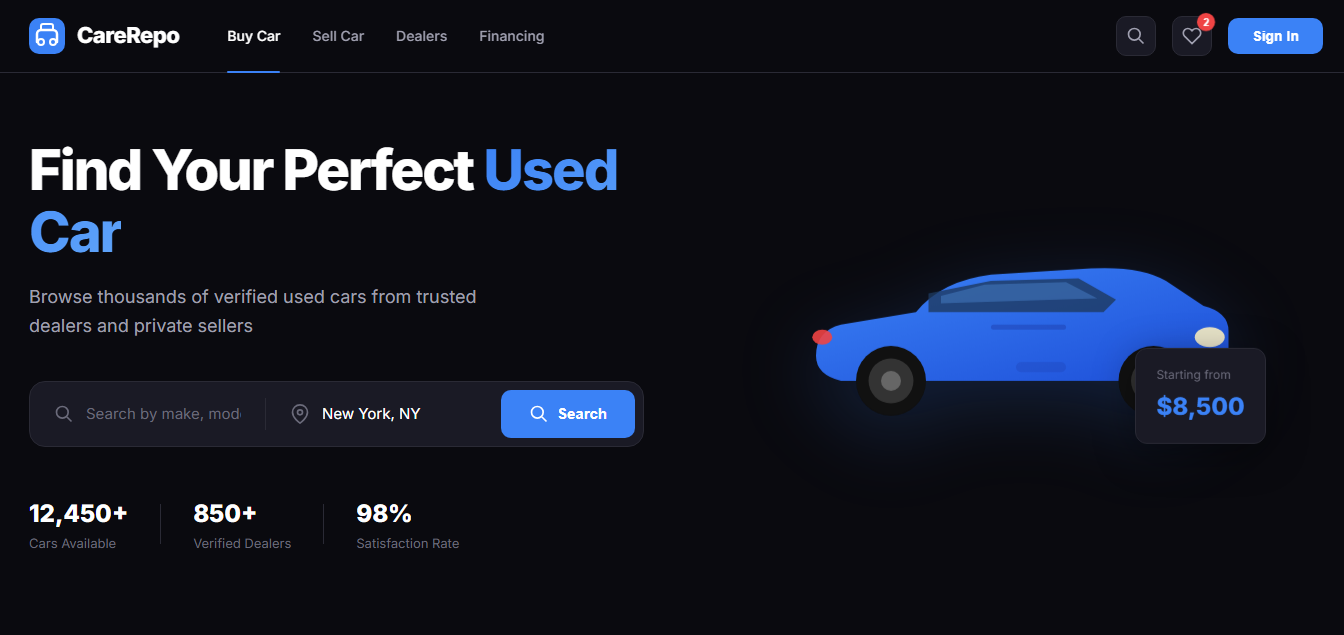
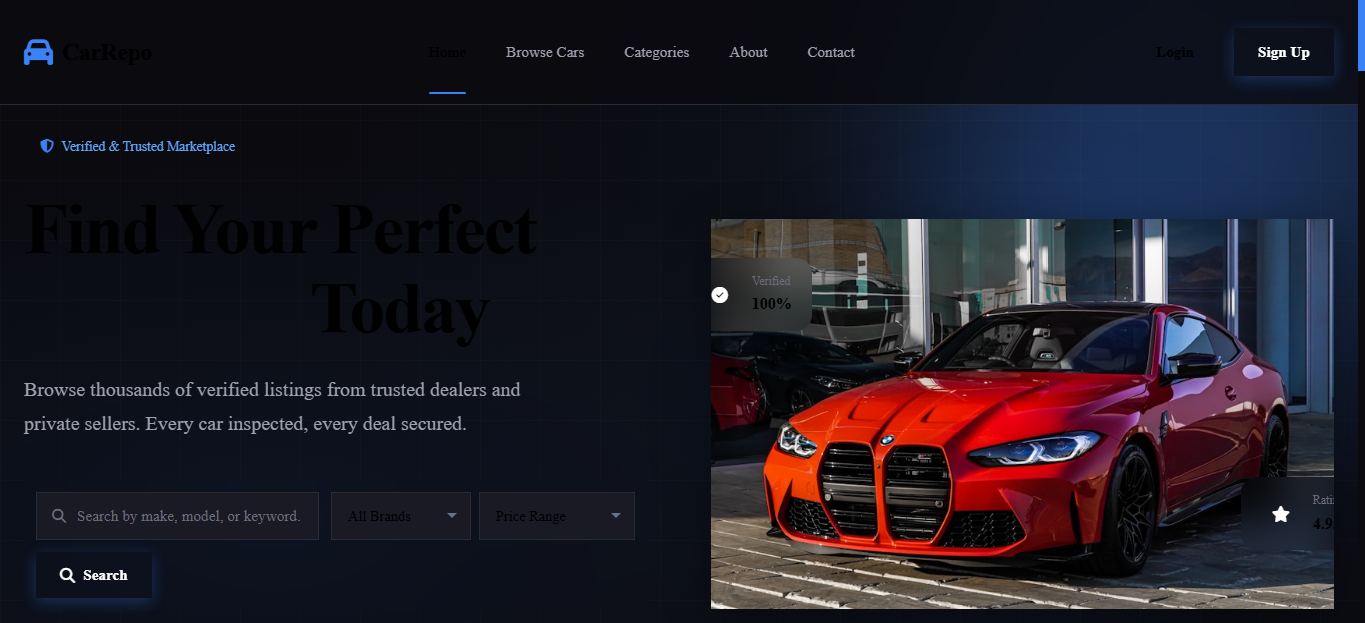
update

diff --git a/cv.html b/cv.html
@@ -1,0 +1,217 @@
+<!DOCTYPE html>
+<html lang="en">
+<head>
+<meta charset="UTF-8">
+<meta name="viewport" content="width=device-width, initial-scale=1.0">
+<title>Professional CV</title>
+
+<style>
+    body {
+        margin: 0;
+        background: #0b0f19;
+        font-family: 'Segoe UI', Arial, sans-serif;
+        color: #e5e7eb;
+    }
+
+    .cv-container {
+        max-width: 900px;
+        margin: 40px auto;
+        background: #111827;
+        padding: 50px;
+        border-radius: 16px;
+        box-shadow: 0 20px 60px rgba(0,0,0,0.5);
+    }
+
+    /* HEADER */
+    .header {
+        display: flex;
+        justify-content: space-between;
+        flex-wrap: wrap;
+        border-bottom: 1px solid #1f2937;
+        padding-bottom: 20px;
+        margin-bottom: 25px;
+    }
+
+    .name {
+        font-size: 34px;
+        font-weight: bold;
+        color: #8b5cf6;
+        margin: 0;
+    }
+
+    .role {
+        color: #a78bfa;
+        margin-top: 5px;
+        font-size: 16px;
+    }
+
+    .contact {
+        text-align: right;
+        font-size: 13px;
+        line-height: 1.7;
+        color: #cbd5e1;
+    }
+
+    /* SECTION */
+    .section {
+        margin-top: 25px;
+    }
+
+    .section-title {
+        font-size: 14px;
+        letter-spacing: 2px;
+        color: #8b5cf6;
+        margin-bottom: 10px;
+        font-weight: bold;
+    }
+
+    p {
+        color: #d1d5db;
+        line-height: 1.7;
+        font-size: 14px;
+    }
+
+    /* SKILLS */
+    .skills {
+        display: flex;
+        flex-wrap: wrap;
+        gap: 10px;
+    }
+
+    .skill {
+        background: #1f2937;
+        padding: 8px 12px;
+        border-radius: 6px;
+        font-size: 12px;
+        border: 1px solid #2b3443;
+    }
+
+    /* PROJECTS */
+    .project {
+        margin-bottom: 12px;
+        padding: 10px;
+        background: #0f172a;
+        border-left: 3px solid #8b5cf6;
+        border-radius: 6px;
+    }
+
+    /* BUTTON */
+    .btn {
+        display: inline-block;
+        margin-top: 20px;
+        padding: 12px 18px;
+        background: linear-gradient(135deg, #8b5cf6, #7c3aed);
+        color: white;
+        text-decoration: none;
+        border-radius: 8px;
+        font-weight: 600;
+        border: none;
+        cursor: pointer;
+        transition: 0.3s;
+    }
+
+    .btn:hover {
+        transform: translateY(-2px);
+        box-shadow: 0 10px 25px rgba(139, 92, 246, 0.3);
+    }
+
+    @media (max-width: 600px) {
+        .header {
+            flex-direction: column;
+            text-align: left;
+        }
+
+        .contact {
+            text-align: left;
+            margin-top: 15px;
+        }
+    }
+</style>
+
+</head>
+
+<body>
+
+<div class="cv-container">
+
+    <!-- HEADER -->
+    <div class="header">
+        <div>
+            <h1 class="name">Jeffrey</h1>
+            <div class="role">Frontend Developer</div>
+        </div>
+
+        <div class="contact">
+            open to work<br>
+            📧 [email redacted]<br>
+            🔗 https://github.com/flhaidem-afk <br>
+            🌐 https://flhaidem-afk.github.io/jeffrey/
+        </div>
+    </div>
+
+    <!-- BUTTON -->
+    <button class="btn" onclick="window.print()">Download CV (PDF)</button>
+
+    <!-- PROFILE -->
+    <div class="section">
+        <div class="section-title">PROFILE</div>
+        <p>
+            Frontend Developer focused on building clean, responsive, and user-friendly web applications.
+            Passionate about UI design, performance, and modern web technologies.
+        </p>
+    </div>
+
+    <!-- SKILLS -->
+    <div class="section">
+        <div class="section-title">SKILLS</div>
+        <div class="skills">
+            <div class="skill">HTML5</div>
+            <div class="skill">CSS3</div>
+            <div class="skill">JavaScript</div>
+            <div class="skill">Bootstrap</div>
+            <div class="skill">Tailwind</div>
+            <div class="skill">Git & GitHub</div>
+            <div class="skill">Responsive Design</div>
+        </div>
+    </div>
+
+    <!-- PROJECTS -->
+   <!-- PROJECTS -->
+<div class="section">
+    <div class="section-title">PROJECTS</div>
+
+    <div class="project">
+        🚗 Car Dealership Website — Full-featured platform for buying and selling used cars with responsive UI, filtering system, and modern layout.
+    </div>
+
+    <div class="project">
+        💈 Barber Booking System — Complete appointment booking website with service selection and responsive design.
+    </div>
+
+    <div class="project">
+        🏥 Medical Management Website — Full healthcare platform UI with appointment system and structured pages.
+    </div>
+
+    <div class="project">
+        🛒 E-commerce Website — Complete online store layout with product listing, cart UI, and responsive design.
+    </div>
+
+    <div class="project">
+        🎓 School/Academic Website — Multi-page educational website with course sections and structured navigation.
+    </div>
+
+    <div class="project">
+        📁 Portfolio Website — Personal developer portfolio showcasing projects, skills, and contact information.
+    </div>
+</div>
+
+    <!-- EDUCATION -->
+    <div class="section">
+        <div class="section-title">EDUCATION</div>
+        <p>Self-taught / Bootcamp / School Certificate</p>
+    </div>
+
+</div>
+
+</body>
+</html>

diff --git a/index.html b/index.html
@@ -11,6 +11,7 @@
     <link href="https://fonts.googleapis.com/css2?family=Inter:wght@300;400;500;600;700;800&family=JetBrains+Mono:wght@400;500;700&display=swap" rel="stylesheet">
     <link rel="stylesheet" href="https://cdnjs.cloudflare.com/ajax/libs/font-awesome/6.5.1/css/all.min.css">
     <link rel="stylesheet" href="style.css">
+    <meta name="viewport" content="width=device-width, initial-scale=1.0">
 </head>
 <body>
     <!-- Custom Cursor -->
@@ -116,6 +117,10 @@
                     </svg> 
                 </a>
               <a href="#contact" class="btn btn-secondary">Contact Me</a>
+
+                  <a href="cv.html" target="_blank" class="btn btn-secondary">
+                    Open CV
+                   </a>
             </div>
 
 
@@ -168,7 +173,7 @@
                 
                 <div class="about-text">
                     <p class="lead">
-                        I transform complex problems into elegant, user-friendly solutions. With a background in both design and engineering, I bridge the gap between aesthetics and functionality.
+                        I'm a frontend developer focused on building modern, responsive websites. I've developed multiple personal and practice projects to strengthen my skills and I'm currently open to freelance and opportunities.
                     </p>
                     <p>
                         Currently focused on building accessible, performant React applications and design systems. I believe in clean code, thoughtful interactions, and details that make the difference.
@@ -310,7 +315,8 @@
                             <span>CSS •</span>
                             <span>JavaScript •</span>
                             <span> Bootstrap</span>
-                         <a href="https://flhaidem-afk.github.io/medical-site/" class="details-link">Details →</a>
+                         <a href="https://flhaidem-afk.github.io/medical-site/" class="details-link">Live Demo →</a>
+                        <a href="https://github.com/flhaidem-afk/medical-site" class="details-link">GitHub →</a>
                         </div>
                     </div>
                 </article>
@@ -335,7 +341,8 @@
                             <span>Next.js • </span>
                             <span>Tailwind CSS •</span>
                             <span>JavaScript</span>
-                            <a href="https://flhaidem-afk.github.io/data/" class="details-link">Details →</a>
+                            <a href="https://flhaidem-afk.github.io/data/" class="details-link">Live Demo →</a>
+                            <a href="https://github.com/flhaidem-afk/data/" class="details-link">GitHub →</a>
                         </div>
                     </div>
                 </article>
@@ -353,12 +360,13 @@
                     <div class="project-info">
                         <span class="project-tag">Car Marketplace</span>
                         <h3 class="project-title">CarsRepo</h3>
-                        <p class="project-desc">Modern platform for buying and selling used cars online.</p>
+                        <p class="project-desc">Developed a responsive used-car marketplace featuring vehicle listings, search functionality, and modern UI/UX design.</p>
                         <div class="project-tech">
                             <span>Next.js •</span>
                             <span>Tailwind CSS •t</span>
                             <span>JavaScript</span>
-                         <a href="https://flhaidem-afk.github.io/car-deal/" class="details-link">Details →</a>
+                         <a href="https://flhaidem-afk.github.io/car-deal/" class="details-link">Live Demo →</a>
+                         <a href="https://github.com/flhaidem-afk/car-deal" class="details-link">GitHub →</a>
                         </div>
                     </div>
                 </article   >
@@ -383,7 +391,8 @@
                             <span>CSS •</span>
                             <span>JavaScript •</span>
                             <span> Bootstrap</span>
-                           <a href="https://flhaidem-afk.github.io/restorant/" class="details-link">Details →</a>
+                           <a href="https://flhaidem-afk.github.io/restorant/" class="details-link">Live Demo →</a>
+                           <a href="https://github.com/flhaidem-afk/restorant" class="details-link">GitHub →</a>
                         </div>
                     </div>
                 </article>
@@ -407,7 +416,8 @@
                             <span>CSS •</span>
                             <span>JavaScript •</span>
                             <span> Bootstrap</span>
-                            <a href="https://flhaidem-afk.github.io/babber/" class="details-link">Details →</a>
+                            <a href="https://flhaidem-afk.github.io/babber/" class="details-link">Live Demo →</a>
+                            <a href="https://github.com/flhaidem-afk/babber" class="details-link">GitHub →</a>
                         </div>
                     </div>
                 </article>
@@ -427,7 +437,8 @@
                             <span>Next.js •</span>
                             <span>Tailwind CSS •</span>
                             <span>JavaScript</span>
-                            <a href="https://flhaidem-afk.github.io/fashon/" class="details-link">Details →</a>
+                            <a href="https://flhaidem-afk.github.io/fashon/" class="details-link">Live Demo →</a>
+                            <a href="https://github.com/flhaidem-afk/fashon" class="details-link">GitHub →</a>
                         </div>
                     </div>
                 </article>
@@ -459,7 +470,7 @@
                             </span>
                             <div>
                                 <span class="contact-label">Email</span>
-                                <span class="contact-value">[email redacted]</span>
+                                <span class="contact-value">[email redacted]</span>
                             </div>
                         </a>
                         
@@ -471,7 +482,7 @@
                             </span>
                             <div>
                                 <span class="contact-label">GitHub</span>
-                                <span class="contact-value">@jeffreydev</span>
+                                <span class="contact-value">https://github.com/flhaidem-afk</span>
                             </div>
                         </a>
                         

diff --git a/script.js b/script.js
@@ -264,13 +264,17 @@ document.addEventListener('DOMContentLoaded', () => {
     });
 
     // Parallax effect for orbs
-    window.addEventListener('scroll', () => {
-        const scrolled = window.pageYOffset;
-        const orbs = document.querySelectorAll('.orb');
-        
-        orbs.forEach((orb, index) => {
-            const speed = 0.5 + (index * 0.2);
-            orb.style.transform = `translateY(${scrolled * speed}px)`;
-        });
-    });
+  window.addEventListener('resize', () => {
+    clearTimeout(resizeTimeout);
+
+    resizeTimeout = setTimeout(() => {
+        if (this.charts.revenue) {
+            this.initRevenueChart();
+        }
+
+        if (this.charts.traffic) {
+            this.initTrafficChart();
+        }
+    }, 300);
+});
 });